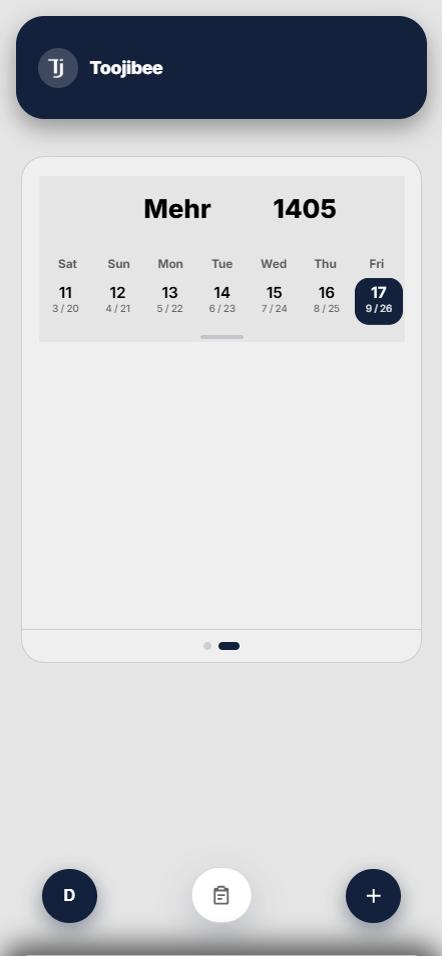
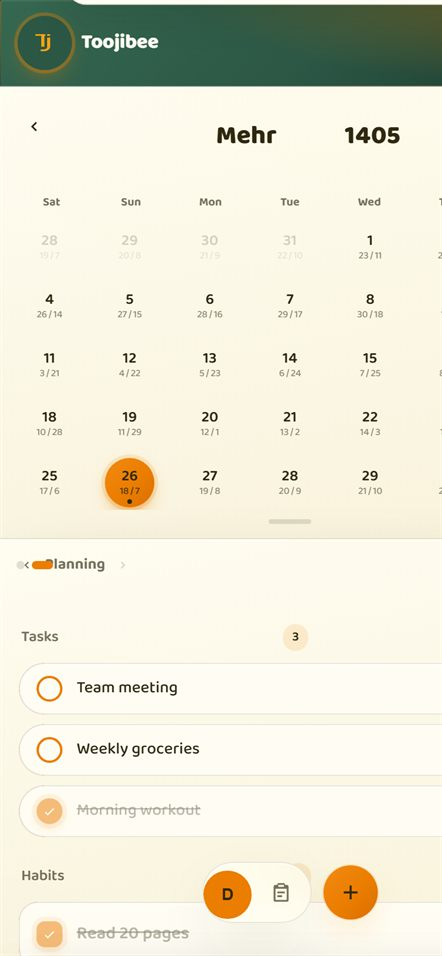
Landing screenshots in the new theme; done rows no longer look red
- The 8 app screenshots on the landing (fa/en x light/dark x phone/
  desktop) are re-captured from the current app: Toojibee palette,
  Baloo font, planning desk with a few sample tasks and habits. Same file
  names and sizes.
- Bug found while capturing: a finished task/habit row was translucent,
  so the red swipe-to-delete layer behind it showed through and every
  done item looked like it was being deleted. Only its content fades now.
Asset version 2026-10-18.10.

diff --git a/frontend/demo/index.html b/frontend/demo/index.html
@@ -38,24 +38,24 @@
 @keyframes splash-slow{to{opacity:1}}
 @media (prefers-reduced-motion:reduce){#app-splash *{animation:none!important}.splash-slow{opacity:1;animation:none}}
 </style>
-<link rel="stylesheet" href="css/base.css?v=2026-10-18.9">
-<link rel="stylesheet" href="css/layout.css?v=2026-10-18.9">
-<link rel="stylesheet" href="css/shared.css?v=2026-10-18.9">
-<link rel="stylesheet" href="css/forms.css?v=2026-10-18.9">
-<link rel="stylesheet" href="css/buttons.css?v=2026-10-18.9">
-<link rel="stylesheet" href="components/menu/menu.css?v=2026-10-18.9">
-<link rel="stylesheet" href="components/toolbar/toolbar.css?v=2026-10-18.9">
-<link rel="stylesheet" href="components/calendar/calendar.css?v=2026-10-18.9">
-<link rel="stylesheet" href="components/banner/banner.css?v=2026-10-18.9">
-<link rel="stylesheet" href="components/workspace/workspace.css?v=2026-10-18.9">
-<link rel="stylesheet" href="components/items/items.css?v=2026-10-18.9">
-<link rel="stylesheet" href="components/day-sheet/day-sheet.css?v=2026-10-18.9">
-<link rel="stylesheet" href="components/popup/popup.css?v=2026-10-18.9">
-<link rel="stylesheet" href="components/period/period.css?v=2026-10-18.9">
-<link rel="stylesheet" href="components/auth/auth.css?v=2026-10-18.9">
-<link rel="stylesheet" href="components/app-error/app-error.css?v=2026-10-18.9">
-<link rel="stylesheet" href="css/theme.css?v=2026-10-18.9">
-<link rel="stylesheet" href="css/palette-toojibee.css?v=2026-10-18.9">
+<link rel="stylesheet" href="css/base.css?v=2026-10-18.10">
+<link rel="stylesheet" href="css/layout.css?v=2026-10-18.10">
+<link rel="stylesheet" href="css/shared.css?v=2026-10-18.10">
+<link rel="stylesheet" href="css/forms.css?v=2026-10-18.10">
+<link rel="stylesheet" href="css/buttons.css?v=2026-10-18.10">
+<link rel="stylesheet" href="components/menu/menu.css?v=2026-10-18.10">
+<link rel="stylesheet" href="components/toolbar/toolbar.css?v=2026-10-18.10">
+<link rel="stylesheet" href="components/calendar/calendar.css?v=2026-10-18.10">
+<link rel="stylesheet" href="components/banner/banner.css?v=2026-10-18.10">
+<link rel="stylesheet" href="components/workspace/workspace.css?v=2026-10-18.10">
+<link rel="stylesheet" href="components/items/items.css?v=2026-10-18.10">
+<link rel="stylesheet" href="components/day-sheet/day-sheet.css?v=2026-10-18.10">
+<link rel="stylesheet" href="components/popup/popup.css?v=2026-10-18.10">
+<link rel="stylesheet" href="components/period/period.css?v=2026-10-18.10">
+<link rel="stylesheet" href="components/auth/auth.css?v=2026-10-18.10">
+<link rel="stylesheet" href="components/app-error/app-error.css?v=2026-10-18.10">
+<link rel="stylesheet" href="css/theme.css?v=2026-10-18.10">
+<link rel="stylesheet" href="css/palette-toojibee.css?v=2026-10-18.10">
 </head>
 <body>
 <div id="app-splash" role="progressbar" aria-label="Loading Toojibee">
@@ -97,29 +97,29 @@
   <div data-include="components/app-error/app-error.html"></div>
 </div>
 
-<script src="js/config.js?v=2026-10-18.9"></script>
-<script src="js/services/api.js?v=2026-10-18.9"></script>
-<script src="js/core/icons.js?v=2026-10-18.9"></script>
-<script src="js/core/dates.js?v=2026-10-18.9"></script>
-<script src="js/core/i18n.js?v=2026-10-18.9"></script>
-<script src="js/core/calendars.js?v=2026-10-18.9"></script>
-<script src="js/core/occasions.js?v=2026-10-18.9"></script>
-<script src="js/core/state.js?v=2026-10-18.9"></script>
-<script src="js/core/render.js?v=2026-10-18.9"></script>
-<script src="components/workspace/workspace.js?v=2026-10-18.9"></script>
-<script src="components/calendar/calendar.js?v=2026-10-18.9"></script>
-<script src="components/items/items.js?v=2026-10-18.9"></script>
-<script src="components/auth/auth.js?v=2026-10-18.9"></script>
-<script src="components/app-error/app-error.js?v=2026-10-18.9"></script>
-<script src="components/menu/menu.js?v=2026-10-18.9"></script>
-<script src="components/period/period.js?v=2026-10-18.9"></script>
-<script src="js/core/util.js?v=2026-10-18.9"></script>
-<script src="components/day-sheet/day-sheet.js?v=2026-10-18.9"></script>
-<script src="components/popup/popup.js?v=2026-10-18.9"></script>
-<script src="js/core/events.js?v=2026-10-18.9"></script>
-<script src="components/calendar/calendar-gestures.js?v=2026-10-18.9"></script>
-<script src="components/items/swipe.js?v=2026-10-18.9"></script>
-<script src="js/core/include.js?v=2026-10-18.9"></script>
-<script src="js/app.js?v=2026-10-18.9"></script>
+<script src="js/config.js?v=2026-10-18.10"></script>
+<script src="js/services/api.js?v=2026-10-18.10"></script>
+<script src="js/core/icons.js?v=2026-10-18.10"></script>
+<script src="js/core/dates.js?v=2026-10-18.10"></script>
+<script src="js/core/i18n.js?v=2026-10-18.10"></script>
+<script src="js/core/calendars.js?v=2026-10-18.10"></script>
+<script src="js/core/occasions.js?v=2026-10-18.10"></script>
+<script src="js/core/state.js?v=2026-10-18.10"></script>
+<script src="js/core/render.js?v=2026-10-18.10"></script>
+<script src="components/workspace/workspace.js?v=2026-10-18.10"></script>
+<script src="components/calendar/calendar.js?v=2026-10-18.10"></script>
+<script src="components/items/items.js?v=2026-10-18.10"></script>
+<script src="components/auth/auth.js?v=2026-10-18.10"></script>
+<script src="components/app-error/app-error.js?v=2026-10-18.10"></script>
+<script src="components/menu/menu.js?v=2026-10-18.10"></script>
+<script src="components/period/period.js?v=2026-10-18.10"></script>
+<script src="js/core/util.js?v=2026-10-18.10"></script>
+<script src="components/day-sheet/day-sheet.js?v=2026-10-18.10"></script>
+<script src="components/popup/popup.js?v=2026-10-18.10"></script>
+<script src="js/core/events.js?v=2026-10-18.10"></script>
+<script src="components/calendar/calendar-gestures.js?v=2026-10-18.10"></script>
+<script src="components/items/swipe.js?v=2026-10-18.10"></script>
+<script src="js/core/include.js?v=2026-10-18.10"></script>
+<script src="js/app.js?v=2026-10-18.10"></script>
 </body>
 </html>

diff --git a/frontend/demo/components/items/items.css b/frontend/demo/components/items/items.css
@@ -1,5 +1,8 @@
 .item-card{ background:var(--card); border-radius:16px; padding:14px; margin-bottom:10px; border:1px solid var(--border); display:flex; align-items:center; gap:12px; }
-.item-card.done{opacity:0.5;}
+/* Done rows fade their CONTENT, not the card: a translucent card let the
+   red swipe-to-delete layer behind it (.swipe-delete-bg) show through,
+   so every finished task looked like it was being deleted. */
+.item-card.done > *{ opacity:0.5; }
 .item-card.task-row{ padding:9px 14px; border-radius:24px; margin-bottom:8px; }
 .checkbox{ position:relative; width:22px; height:22px; border-radius:50%; border:2px solid var(--primary); flex:0 0 auto; display:flex; align-items:center; justify-content:center; cursor:pointer; transition:transform .15s cubic-bezier(.34,1.56,.64,1); }
 /* Below WCAG's 24x24 minimum touch target as drawn — grow the tap area

diff --git a/frontend/demo/js/core/include.js b/frontend/demo/js/core/include.js
@@ -9,7 +9,7 @@
    Pages lets browsers cache files for 10 minutes, so after a deploy a
    phone kept the old CSS/JS. Bump both (one find-and-replace) on every
    frontend change to /demo/. */
-const ASSET_VERSION = '2026-10-18.9';
+const ASSET_VERSION = '2026-10-18.10';
 
 async function loadComponents(){
   const slots = [...document.querySelectorAll('[data-include]')];
